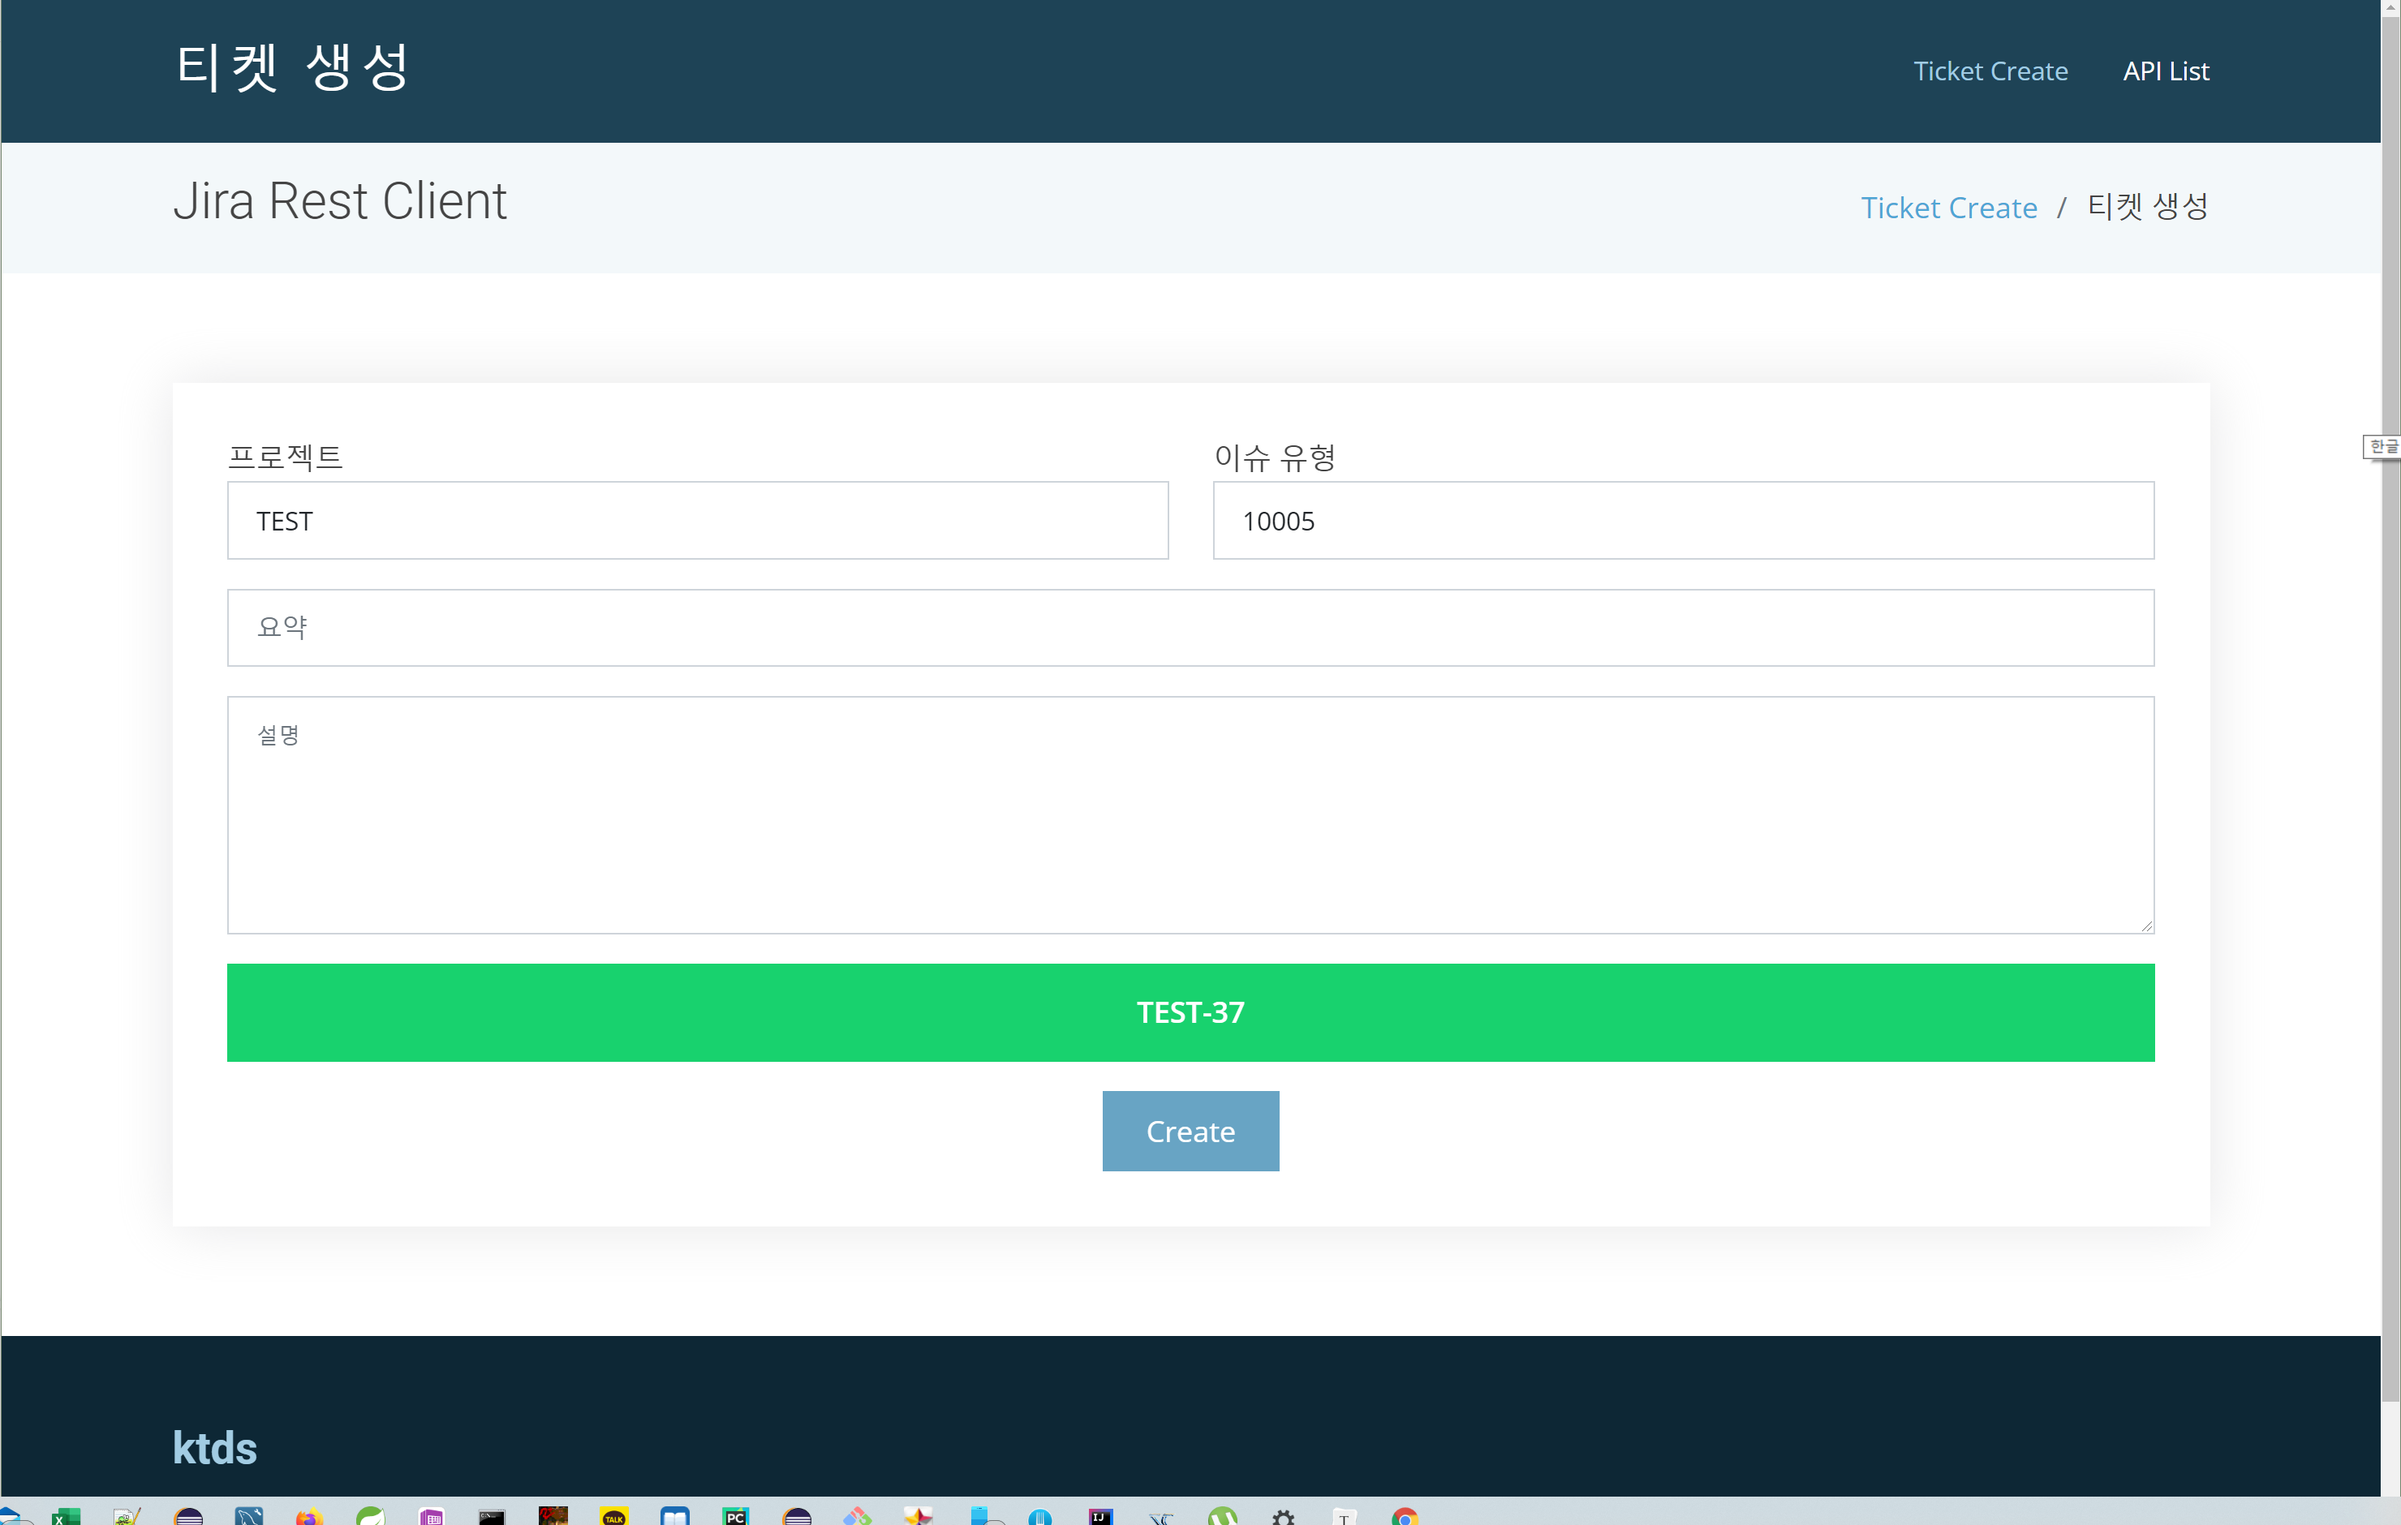
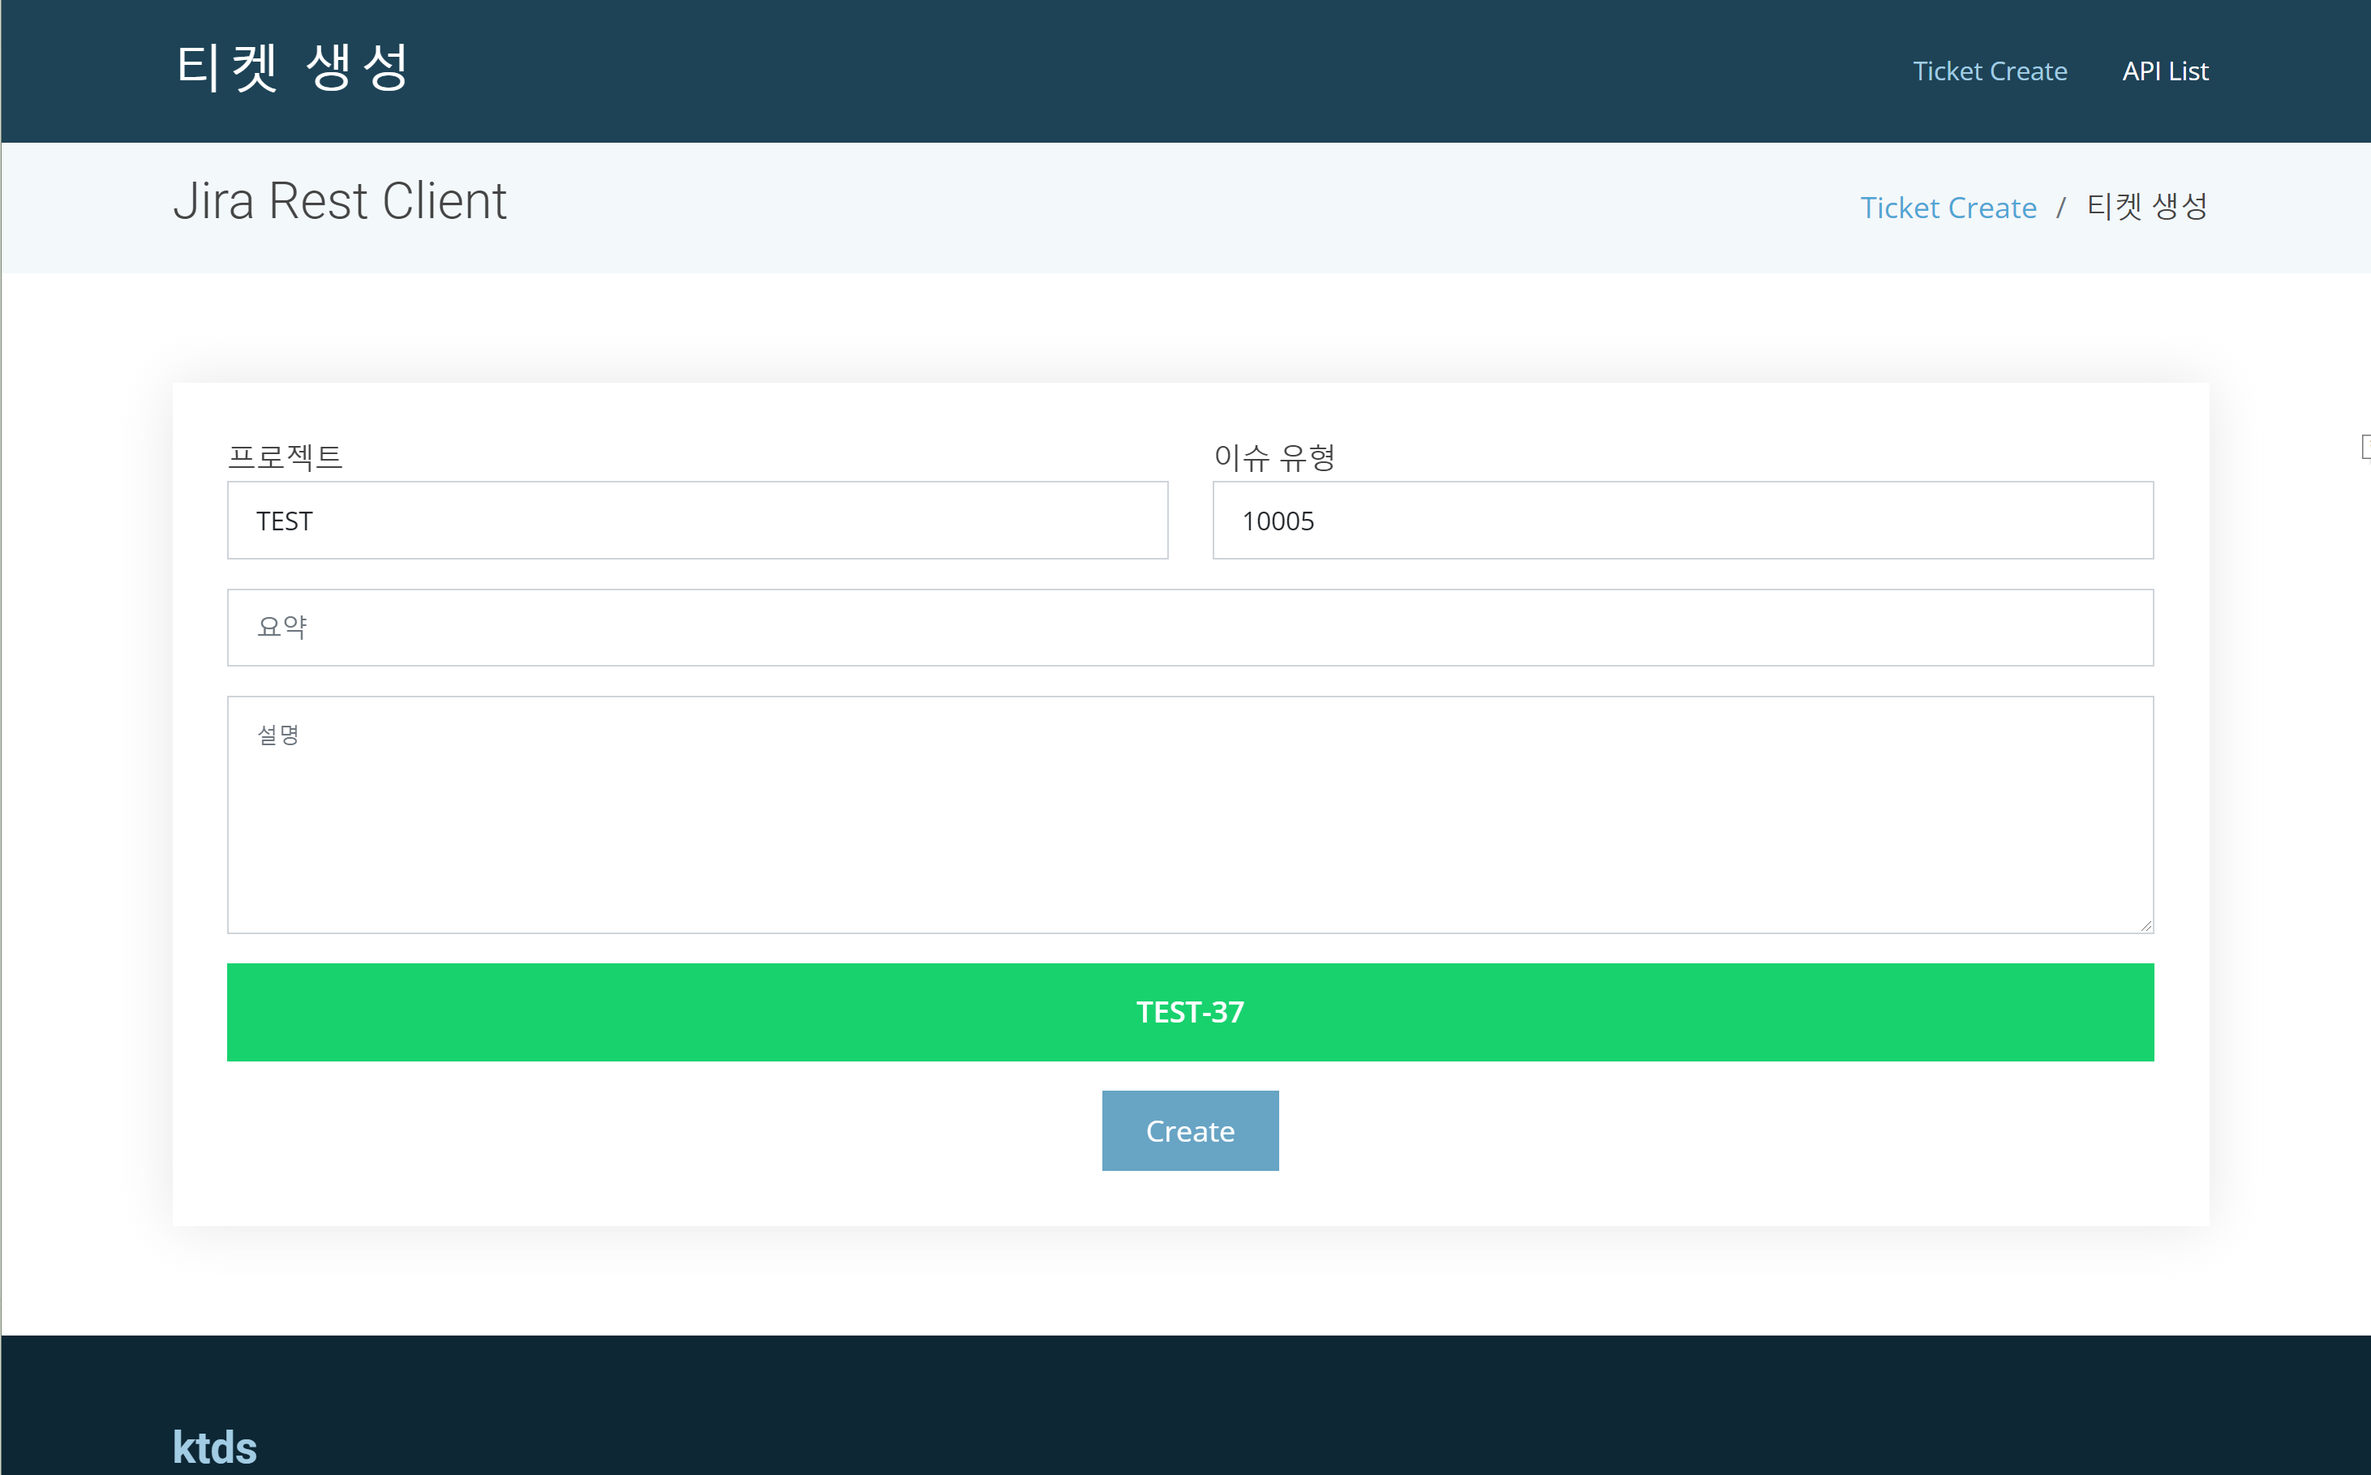
readme added

diff --git a/src/main/resources/templates/index.html b/src/main/resources/templates/index.html
@@ -43,7 +43,7 @@
     <div class="container d-flex justify-content-between align-items-center">
 
         <div class="logo">
-            <h1 class="text-light"><a href="index.html"><span>티켓 생성</span></a></h1>
+            <h1 class="text-light"><a href=""><span>Jira Rest Client</span></a></h1>
             <!-- Uncomment below if you prefer to use an image logo -->
             <!-- <a href="index.html"><img src="assets/img/logo.png" alt="" class="img-fluid"></a>-->
         </div>
@@ -66,9 +66,9 @@
         <div class="container">
 
             <div class="d-flex justify-content-between align-items-center">
-                <h2>Jira Rest Client</h2>
+                <h2>티켓 생성</h2>
                 <ol>
-                    <li><a href="index.html">Ticket Create</a></li>
+                    <li><a href="">Ticket Create</a></li>
                     <li>티켓 생성</li>
                 </ol>
             </div>

diff --git a/README.md b/README.md
@@ -4,13 +4,15 @@
 
 * 기능
 
-  * 티켓 생성
+  * JIRA 티켓 생성
 
     : 지정한 프로젝트, 이슈 유형으로 jira ticket을 생성 한다.
 
+    생성시 ticket key 정보를 화면에 보여준다.
+
   * rest api (swagger)
 
-    : 제공되는 rest api 
+    : 제공되는 issue 관련 rest api 
 
 * 시작하기
 
